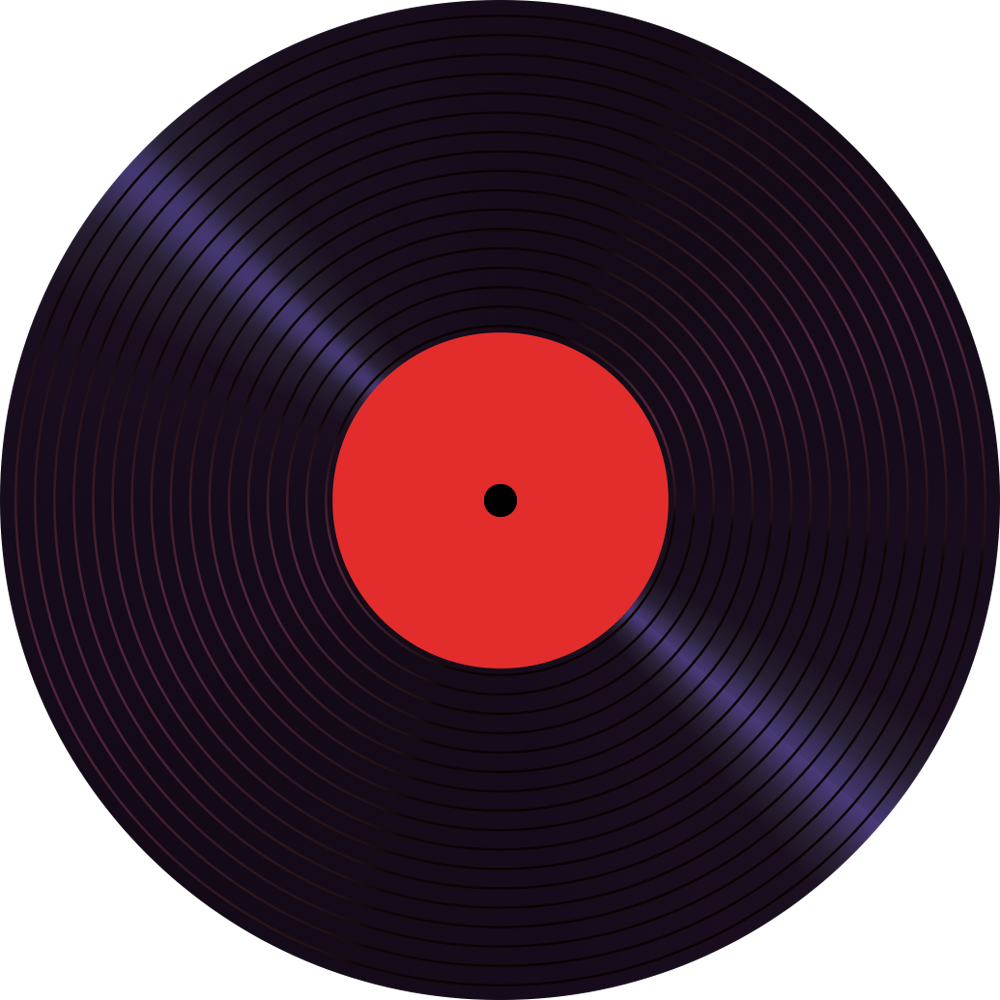
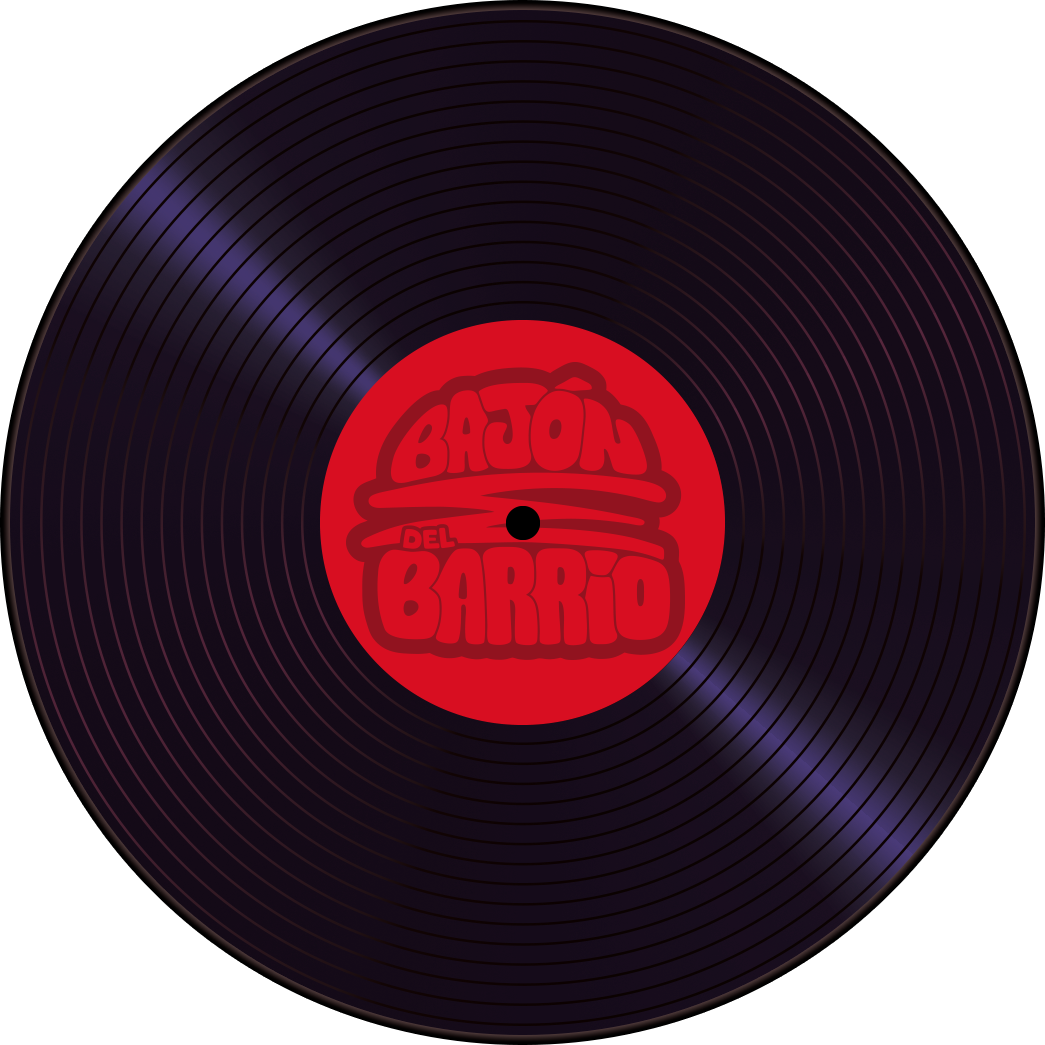
Add files via upload

diff --git a/index.html b/index.html
@@ -29,7 +29,7 @@ button:focus-visible,a:focus-visible{outline:3px solid var(--white);outline-offs
 .vinyl{position:relative;aspect-ratio:1;border-radius:50%;cursor:pointer;border:0;padding:0;display:block;width:100%;
 background:#150b19 url(disco.png) center/100% 100% no-repeat;will-change:transform;box-shadow:0 20px 60px rgba(0,0,0,.7),0 0 90px rgba(120,8,8,.6);touch-action:none;user-select:none;-webkit-user-select:none;cursor:grab;container-type:inline-size}
 .vinyl.grabbing{cursor:grabbing}
-.label{position:absolute;inset:33.3%;border-radius:50%;display:flex;align-items:flex-end;justify-content:center;padding-bottom:3.2%;text-align:center;font-family:Anton,Impact,sans-serif;font-size:clamp(.6rem,2.2vw,1rem);font-size:3.6cqw;line-height:1.1;color:var(--white)}
+.label{position:absolute;inset:33.3%;border-radius:50%;display:none;align-items:flex-end;justify-content:center;padding-bottom:3.2%;text-align:center;font-family:Anton,Impact,sans-serif;font-size:clamp(.6rem,2.2vw,1rem);font-size:3.6cqw;line-height:1.1;color:var(--white)}
 @keyframes spin{to{transform:rotate(360deg)}}
 .player{margin-top:22px;border-radius:14px;overflow:hidden;background:var(--black);border:2px solid var(--brown);min-height:80px}
 .player iframe{display:block;width:100%;height:152px;border:0}
